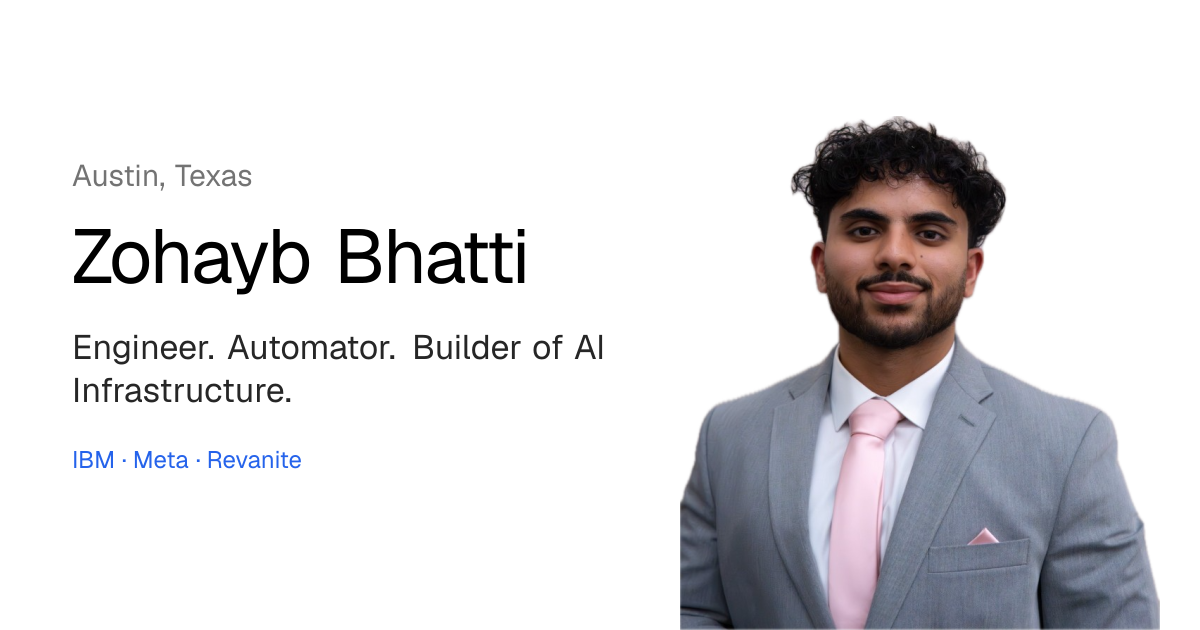
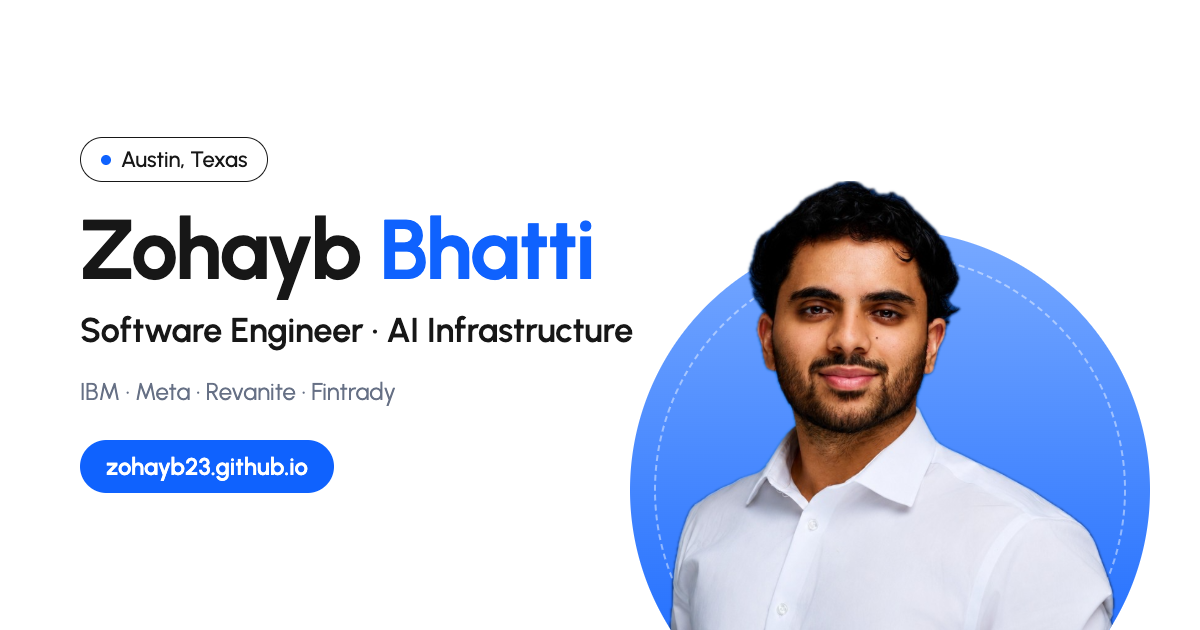
Use new white-shirt headshot and refresh the share image
The hero's blue half-circle is larger and the photo has a soft shadow so
the white shirt doesn't blend into the page background.

diff --git a/src/components/Hero.tsx b/src/components/Hero.tsx
@@ -88,20 +88,20 @@ export function Hero({ hasResume }: { hasResume: boolean }) {
           animate={{ scaleY: 1, opacity: 1 }}
           transition={{ duration: 1, delay: 0.15, ease }}
           style={{ originY: 1 }}
-          className="absolute bottom-0 left-1/2 aspect-[2/1] w-[min(92vw,640px)] -translate-x-1/2 rounded-t-full bg-gradient-to-t from-brand-deep via-brand to-brand-light"
+          className="absolute bottom-0 left-1/2 aspect-[2/1] w-[min(124vw,760px)] -translate-x-1/2 rounded-t-full bg-gradient-to-t from-brand-deep via-brand to-brand-light"
         />
 
         <motion.div
           initial={{ y: 40 }}
           animate={{ y: 0 }}
           transition={{ duration: 1.1, delay: 0.25, ease }}
-          className="absolute inset-x-0 bottom-0 flex h-full justify-center"
+          className="absolute inset-x-0 bottom-0 flex h-full justify-center drop-shadow-[0_12px_28px_rgba(15,23,42,0.22)]"
         >
           <Image
             src="/headshot.webp"
             alt={`Portrait of ${profile.name}`}
-            width={682}
-            height={730}
+            width={760}
+            height={920}
             preload
             className="portrait-fade h-full w-auto object-contain object-bottom"
           />

diff --git a/src/components/About.tsx b/src/components/About.tsx
@@ -14,10 +14,10 @@ export function About() {
               <div className="absolute inset-x-0 bottom-0 h-[112%] overflow-hidden rounded-b-full">
                 <Image
                   src="/headshot.webp"
-                  alt={`${profile.name} in a suit`}
-                  width={682}
-                  height={730}
-                  className="absolute bottom-0 left-0 h-auto w-full"
+                  alt={`${profile.name} in a white shirt`}
+                  width={760}
+                  height={920}
+                  className="absolute bottom-0 left-1/2 h-auto w-[90%] max-w-none -translate-x-1/2"
                 />
               </div>
             </div>

diff --git a/README.md b/README.md
@@ -6,7 +6,7 @@ Built with Next.js (static export), Tailwind CSS, and Motion. Every push to `mai
 
 ## Editing content
 
-All copy (experience, projects, skills, stats, links) lives in `src/data/profile.ts`. To swap the portrait, replace `public/headshot.png`; `scripts/cutout.swift` removes a photo's background on macOS:
+All copy (experience, projects, skills, stats, links) lives in `src/data/profile.ts`. To swap the portrait, remove the photo's background on macOS with `scripts/cutout.swift`, then replace both `public/headshot.png` and `public/headshot.webp` (the page uses the WebP; the PNG is for search engines). If the new cutout has different dimensions, update the `width`/`height` props in `Hero.tsx` and `About.tsx`, and regenerate `src/app/opengraph-image.png` (1200×630).
 
 ```bash
 swift scripts/cutout.swift path/to/photo.jpg public/headshot.png
